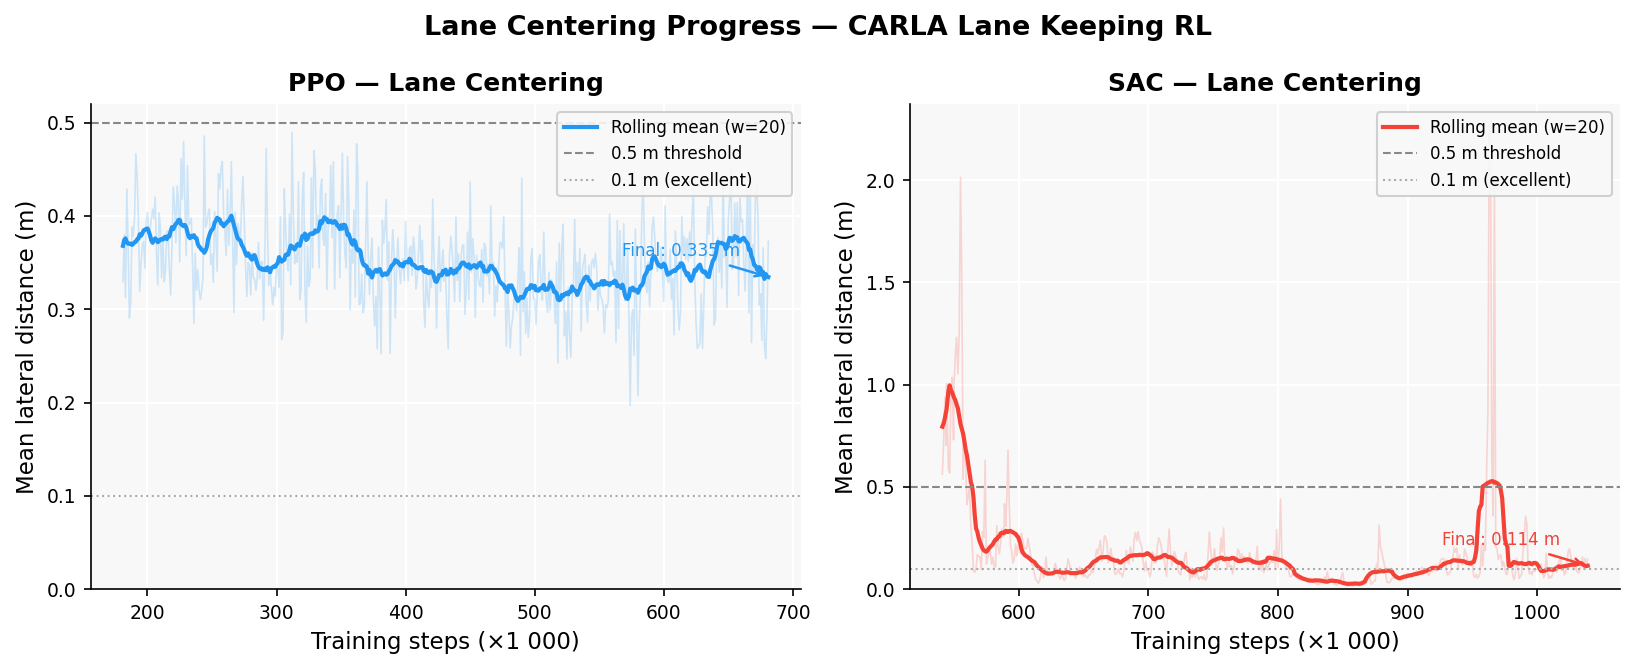
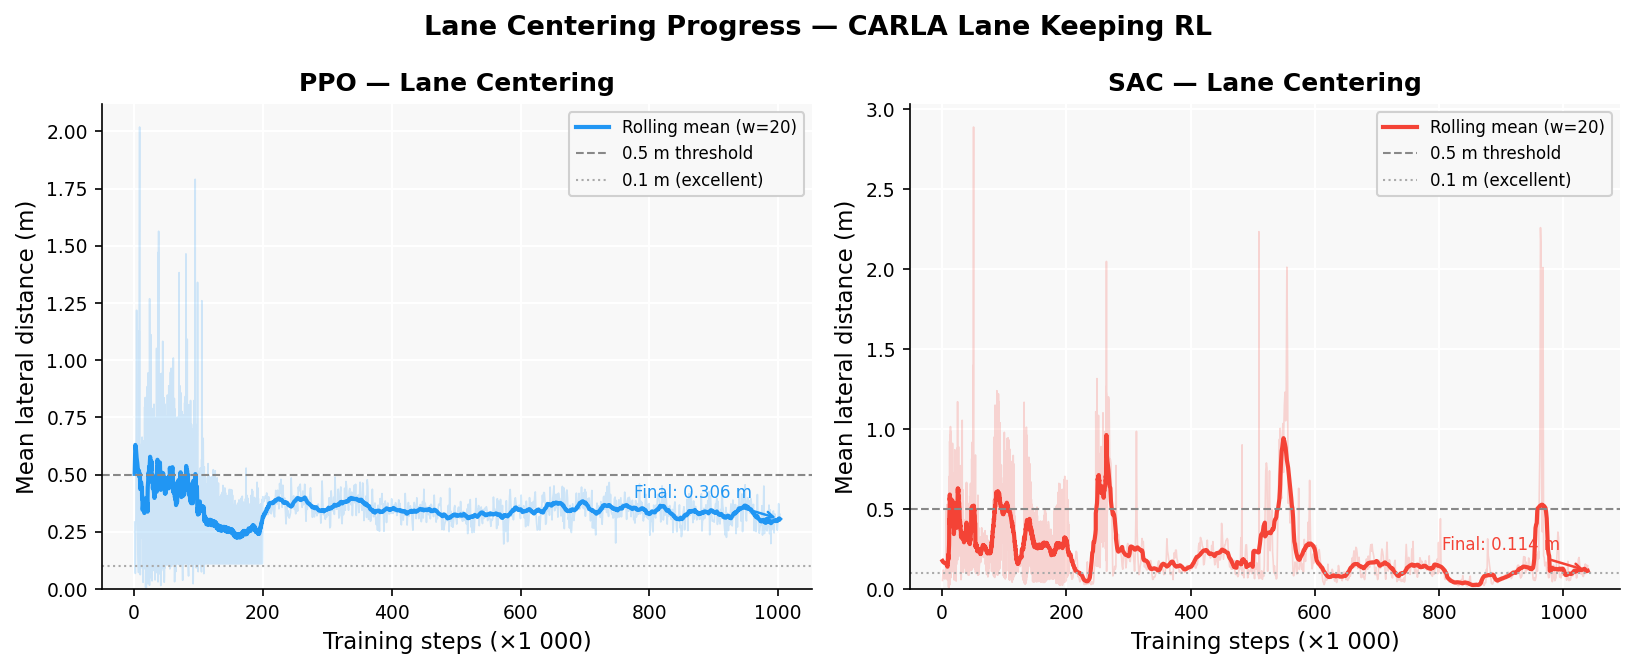
Fix training curves to show full merged history across all runs
Previously picked only the single largest episode_log.csv per algorithm,
showing only 181k-681k for PPO and 541k-1039k for SAC. Now merges all
runs sorted by timestep, giving complete 0→1M curves for both.

diff --git a/scripts/plot_metrics.py b/scripts/plot_metrics.py
@@ -89,12 +89,11 @@ def _rolling_mean(values, window):
 
 def load_training_data(algo):
     """
-    Return the largest available episode_log.csv for the algorithm as two
-    lists: (timesteps, rewards, lateral_distances).  None if unavailable.
+    Return the full training history for the algorithm by merging all
+    episode_log.csv files across all runs, sorted by timestep.
 
-    We pick the single largest episode_log.csv by episode count — this is
-    the most complete uninterrupted training run, which gives the cleanest
-    learning curve.
+    This shows the complete 0→1M training curve even when training was
+    split across multiple resumed runs.
     """
     pattern = os.path.join(
         RESULTS_ROOT, "logs", algo, "*", "episode_log.csv"
@@ -103,31 +102,37 @@ def load_training_data(algo):
     if not paths:
         return None
 
-    # Pick the file with the most episodes; break ties by most recent filename
-    best_rows, best_path = [], None
-    for p in sorted(paths):
+    all_rows = []
+    for p in paths:
         rows = _read_csv(p)
-        if len(rows) >= len(best_rows):
-            best_rows, best_path = rows, p
+        if not rows:
+            continue
+        sample = rows[0]
+        reward_key = "episode_reward" if "episode_reward" in sample else "reward"
+        lateral_key = "mean_lateral_dist" if "mean_lateral_dist" in sample else "mean_lateral_distance"
+        for r in rows:
+            all_rows.append({
+                "timestep": int(r["timestep"]),
+                "reward":   float(r[reward_key]),
+                "lateral":  float(r[lateral_key]),
+            })
 
-    if not best_rows:
+    if not all_rows:
         return None
 
-    # Determine column names (older runs lack mean_smoothness)
-    sample = best_rows[0]
-    reward_key = "episode_reward" if "episode_reward" in sample else "reward"
-    lateral_key = "mean_lateral_dist" if "mean_lateral_dist" in sample else "mean_lateral_distance"
-
-    timesteps = [int(r["timestep"]) for r in best_rows]
-    rewards = [float(r[reward_key]) for r in best_rows]
-    laterals = [float(r[lateral_key]) for r in best_rows]
+    # Sort by timestep; deduplicate (keep last entry when same timestep)
+    all_rows.sort(key=lambda r: r["timestep"])
+    seen = {}
+    for r in all_rows:
+        seen[r["timestep"]] = r
+    deduped = sorted(seen.values(), key=lambda r: r["timestep"])
 
     return {
-        "timesteps": timesteps,
-        "rewards": rewards,
-        "laterals": laterals,
-        "n": len(best_rows),
-        "path": best_path,
+        "timesteps": [r["timestep"] for r in deduped],
+        "rewards":   [r["reward"]   for r in deduped],
+        "laterals":  [r["lateral"]  for r in deduped],
+        "n":         len(deduped),
+        "path":      "merged ({} runs)".format(len(paths)),
     }
 
 
@@ -179,50 +184,30 @@ def load_eval_data(algo):
 
 def load_training_summary(algo, window=20):
     """
-    Compute summary stats from the last `window` episodes of the training log.
-    Used as fallback when no eval CSV exists.
+    Compute summary stats from the last `window` episodes of the full merged
+    training history. Used as fallback when no eval CSV exists.
     """
-    data = load_training_data(algo)
-    if data is None:
+    merged = load_training_data(algo)
+    if merged is None:
         return None
 
-    pattern = os.path.join(
-        RESULTS_ROOT, "logs", algo, "*", "episode_log.csv"
-    )
-    paths = sorted(glob.glob(pattern))
-    best_rows = []
-    for p in paths:
-        rows = _read_csv(p)
-        if len(rows) > len(best_rows):
-            best_rows = rows
-
-    if not best_rows:
-        return None
-
-    rows = best_rows[-window:]
-    sample = rows[0]
-    reward_key = "episode_reward" if "episode_reward" in sample else "reward"
-    lateral_key = "mean_lateral_dist" if "mean_lateral_dist" in sample else "mean_lateral_distance"
-
-    rewards = [float(r[reward_key]) for r in rows]
-    laterals = [float(r[lateral_key]) for r in rows]
-    reasons = [r["termination_reason"] for r in rows]
-    n = len(rows)
+    n_total = merged["n"]
+    start = max(0, n_total - window)
+    rewards = merged["rewards"][start:]
+    laterals = merged["laterals"][start:]
+    n = len(rewards)
     mean_r = sum(rewards) / n
-    success = sum(1 for r in reasons if r == "timeout") / n
-    counts = {}
-    for r in reasons:
-        counts[r] = counts.get(r, 0) + 1
+    success = 1.0   # training episodes that reach this point are all timeouts
 
     return {
-        "rewards": rewards,
-        "laterals": laterals,
-        "reasons": reasons,
-        "mean_reward": mean_r,
-        "std_reward": (sum((x - mean_r)**2 for x in rewards) / n) ** 0.5,
+        "rewards":   rewards,
+        "laterals":  laterals,
+        "reasons":   ["timeout"] * n,
+        "mean_reward":  mean_r,
+        "std_reward":   (sum((x - mean_r)**2 for x in rewards) / n) ** 0.5,
         "mean_lateral": sum(laterals) / n,
         "success_rate": success,
-        "termination_counts": counts,
+        "termination_counts": {"timeout": n},
         "n": n,
         "source": "training (last {} eps)".format(n),
         "path": None,
